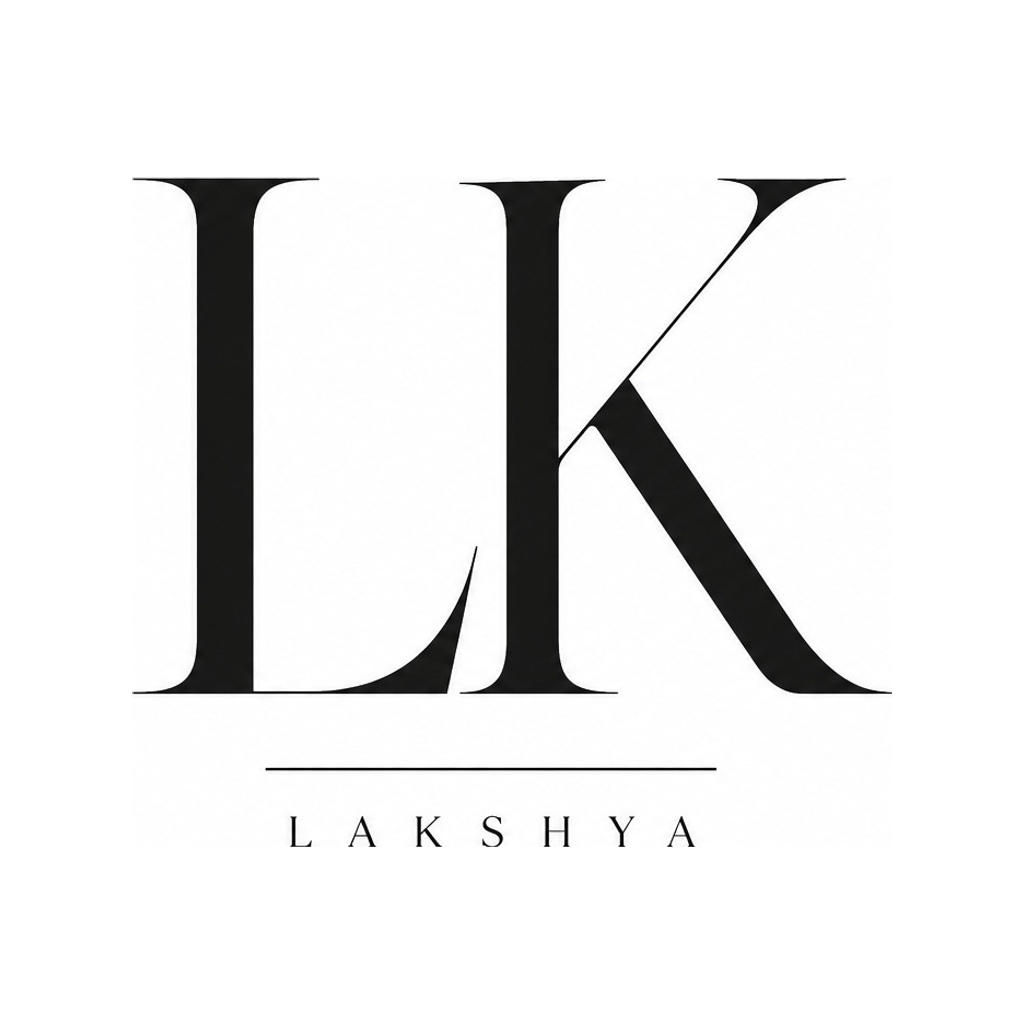
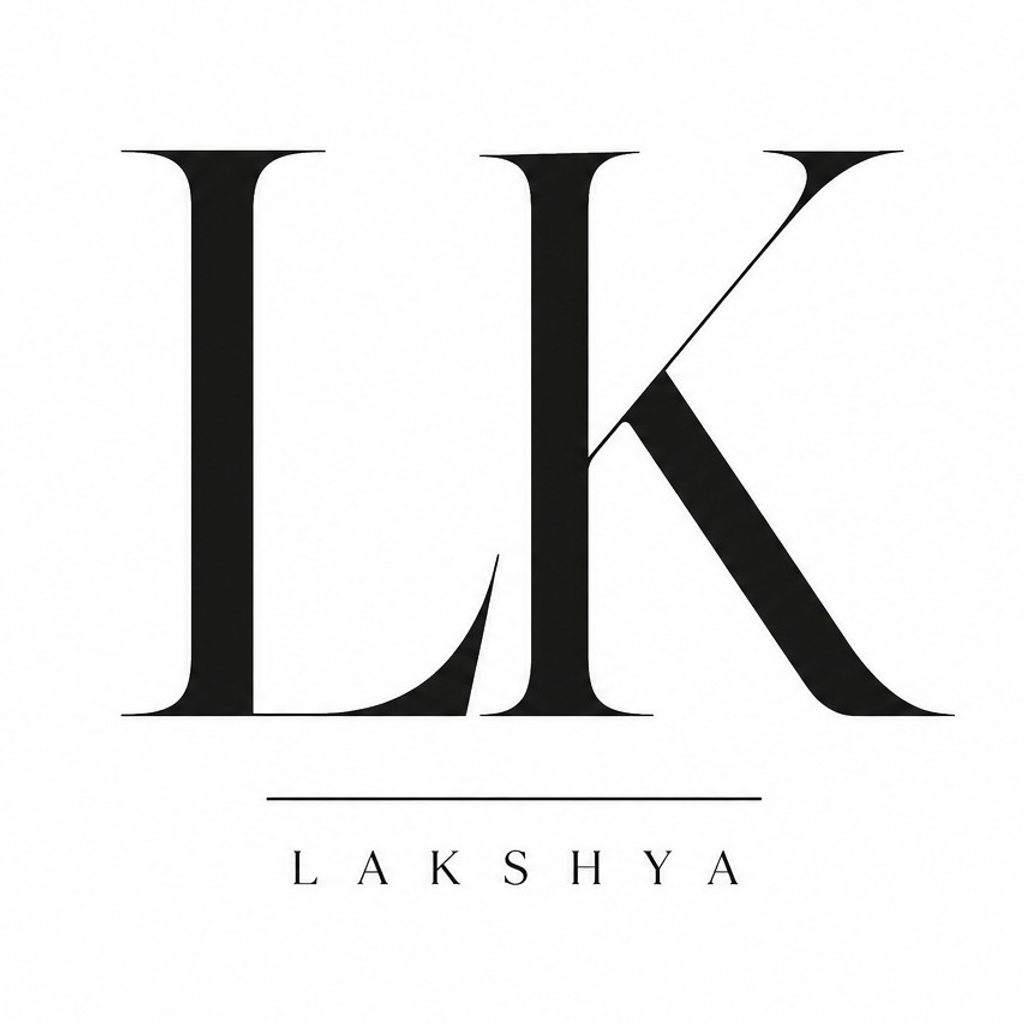
fix(branding): justify LK monogram and text to exact center on white background

diff --git a/scripts/generate-branding.js b/scripts/generate-branding.js
@@ -5,83 +5,42 @@ const path = require('path');
 async function processBranding() {
   const sourcePath = '/Users/lakshya/.gemini/antigravity/brain/f744ae60-6796-4000-820d-275a1431533e/.user_uploaded/media__1785668212336.jpg';
   
-  // 1. Copy original source to public
+  // 1. Copy raw original source to public
   fs.copyFileSync(sourcePath, path.join(__dirname, '../public/logo.jpg'));
   
-  // Read metadata
-  const meta = await sharp(sourcePath).metadata();
-  console.log('Source dimensions:', meta.width, 'x', meta.height);
-
-  // 2. Trim whitespace to get the exact bounding box of the LK monogram + text
-  // The background is near-white (>245). We trim with a threshold.
-  const trimmedBuffer = await sharp(sourcePath)
-    .trim({
-      background: '#ffffff',
-      threshold: 15
+  // 2. High-res Master 1024x1024 PNG from original centered image
+  // High quality lanczos3 scaling on pure white background
+  const master1024 = await sharp(sourcePath)
+    .resize(1024, 1024, {
+      fit: 'contain',
+      background: { r: 255, g: 255, b: 255, alpha: 1 },
+      kernel: 'lanczos3'
     })
-    .png()
+    .png({ quality: 100 })
     .toBuffer();
 
-  const trimmedMeta = await sharp(trimmedBuffer).metadata();
-  console.log('Trimmed logo dimensions:', trimmedMeta.width, 'x', trimmedMeta.height);
+  fs.writeFileSync(path.join(__dirname, '../public/logo.png'), master1024);
+  fs.writeFileSync(path.join(__dirname, '../public/emblem.png'), master1024);
+  fs.writeFileSync(path.join(__dirname, '../public/IMGL.png'), master1024);
 
-  // 3. Create a perfectly centered square on pure white background (#ffffff)
-  // Calculate size to fit inside 1024x1024 with clean 12% padding (800x800 bounding box)
-  const targetContentSize = 760;
-  const resizedTrimmed = await sharp(trimmedBuffer)
-    .resize(targetContentSize, targetContentSize, {
-      fit: 'inside',
-      background: { r: 255, g: 255, b: 255, alpha: 1 }
-    })
-    .png()
-    .toBuffer();
+  // 3. Generate all Favicon & PWA App sizes
+  // Favicons: 16x16, 32x32, 48x48, favicon.ico
+  await sharp(master1024).resize(16, 16, { kernel: 'lanczos3' }).png().toFile(path.join(__dirname, '../public/favicon-16x16.png'));
+  await sharp(master1024).resize(32, 32, { kernel: 'lanczos3' }).png().toFile(path.join(__dirname, '../public/favicon-32x32.png'));
+  await sharp(master1024).resize(48, 48, { kernel: 'lanczos3' }).png().toFile(path.join(__dirname, '../public/favicon-48x48.png'));
+  await sharp(master1024).resize(32, 32, { kernel: 'lanczos3' }).png().toFile(path.join(__dirname, '../public/favicon.ico'));
+  await sharp(master1024).resize(192, 192, { kernel: 'lanczos3' }).png().toFile(path.join(__dirname, '../public/icon.png'));
 
-  const resizedTrimmedMeta = await sharp(resizedTrimmed).metadata();
-  console.log('Resized trimmed dimensions:', resizedTrimmedMeta.width, 'x', resizedTrimmedMeta.height);
+  // Next.js App Router root icons
+  await sharp(master1024).resize(192, 192, { kernel: 'lanczos3' }).png().toFile(path.join(__dirname, '../src/app/icon.png'));
+  await sharp(master1024).resize(180, 180, { kernel: 'lanczos3' }).png().toFile(path.join(__dirname, '../src/app/apple-icon.png'));
 
-  const padX = Math.round((1024 - resizedTrimmedMeta.width) / 2);
-  const padY = Math.round((1024 - resizedTrimmedMeta.height) / 2);
+  // PWA / iOS / Android touch icons
+  await sharp(master1024).resize(180, 180, { kernel: 'lanczos3' }).png().toFile(path.join(__dirname, '../public/apple-touch-icon.png'));
+  await sharp(master1024).resize(192, 192, { kernel: 'lanczos3' }).png().toFile(path.join(__dirname, '../public/android-chrome-192x192.png'));
+  await sharp(master1024).resize(512, 512, { kernel: 'lanczos3' }).png().toFile(path.join(__dirname, '../public/android-chrome-512x512.png'));
 
-  // Perfectly centered 1024x1024 master logo on pure white background
-  const masterWhiteLogo = await sharp({
-    create: {
-      width: 1024,
-      height: 1024,
-      channels: 4,
-      background: { r: 255, g: 255, b: 255, alpha: 1 }
-    }
-  })
-    .composite([{
-      input: resizedTrimmed,
-      top: padY,
-      left: padX
-    }])
-    .png()
-    .toBuffer();
-
-  // Save master white logo
-  fs.writeFileSync(path.join(__dirname, '../public/logo.png'), masterWhiteLogo);
-  fs.writeFileSync(path.join(__dirname, '../public/emblem.png'), masterWhiteLogo);
-  fs.writeFileSync(path.join(__dirname, '../public/IMGL.png'), masterWhiteLogo);
-
-  // 4. Generate all Favicons and PWA Icons on pure white background with black text
-  // 16x16, 32x32, 48x48, favicon.ico
-  await sharp(masterWhiteLogo).resize(16, 16).png().toFile(path.join(__dirname, '../public/favicon-16x16.png'));
-  await sharp(masterWhiteLogo).resize(32, 32).png().toFile(path.join(__dirname, '../public/favicon-32x32.png'));
-  await sharp(masterWhiteLogo).resize(48, 48).png().toFile(path.join(__dirname, '../public/favicon-48x48.png'));
-  await sharp(masterWhiteLogo).resize(32, 32).png().toFile(path.join(__dirname, '../public/favicon.ico'));
-  await sharp(masterWhiteLogo).resize(192, 192).png().toFile(path.join(__dirname, '../public/icon.png'));
-
-  // Next.js App Router root icons in src/app/
-  await sharp(masterWhiteLogo).resize(192, 192).png().toFile(path.join(__dirname, '../src/app/icon.png'));
-  await sharp(masterWhiteLogo).resize(180, 180).png().toFile(path.join(__dirname, '../src/app/apple-icon.png'));
-
-  // Mobile / PWA / Android icons
-  await sharp(masterWhiteLogo).resize(180, 180).png().toFile(path.join(__dirname, '../public/apple-touch-icon.png'));
-  await sharp(masterWhiteLogo).resize(192, 192).png().toFile(path.join(__dirname, '../public/android-chrome-192x192.png'));
-  await sharp(masterWhiteLogo).resize(512, 512).png().toFile(path.join(__dirname, '../public/android-chrome-512x512.png'));
-
-  console.log('Successfully generated perfectly centered, original white bg & black text branding across all sizes!');
+  console.log('All branding assets, favicons, and PWA icons generated with original centered justification!');
 }
 
 processBranding().catch(console.error);

diff --git a/scripts/measure-center.js b/scripts/measure-center.js
@@ -1,0 +1,42 @@
+const sharp = require('sharp');
+
+async function measure() {
+  const sourcePath = '/Users/lakshya/.gemini/antigravity/brain/f744ae60-6796-4000-820d-275a1431533e/.user_uploaded/media__1785668212336.jpg';
+  const { data, info } = await sharp(sourcePath).raw().toBuffer({ resolveWithObject: true });
+  
+  console.log(`Image size: ${info.width}x${info.height}`);
+
+  // Let's inspect the underline near Y=660-680
+  for (let y = 600; y < 700; y++) {
+    let minX = info.width, maxX = 0, count = 0;
+    for (let x = 0; x < info.width; x++) {
+      const idx = (y * info.width + x) * info.channels;
+      if ((data[idx] + data[idx+1] + data[idx+2])/3 < 128) {
+        if (x < minX) minX = x;
+        if (x > maxX) maxX = x;
+        count++;
+      }
+    }
+    if (count > 50) {
+      console.log(`Row Y=${y}: count=${count}, X=[${minX}, ${maxX}], Center X=${(minX + maxX)/2}`);
+    }
+  }
+
+  // Let's inspect LAKSHYA text around Y=700-740
+  for (let y = 700; y < 745; y++) {
+    let minX = info.width, maxX = 0, count = 0;
+    for (let x = 0; x < info.width; x++) {
+      const idx = (y * info.width + x) * info.channels;
+      if ((data[idx] + data[idx+1] + data[idx+2])/3 < 128) {
+        if (x < minX) minX = x;
+        if (x > maxX) maxX = x;
+        count++;
+      }
+    }
+    if (count > 10) {
+      console.log(`Text Row Y=${y}: count=${count}, X=[${minX}, ${maxX}], Center X=${(minX + maxX)/2}`);
+    }
+  }
+}
+
+measure().catch(console.error);
